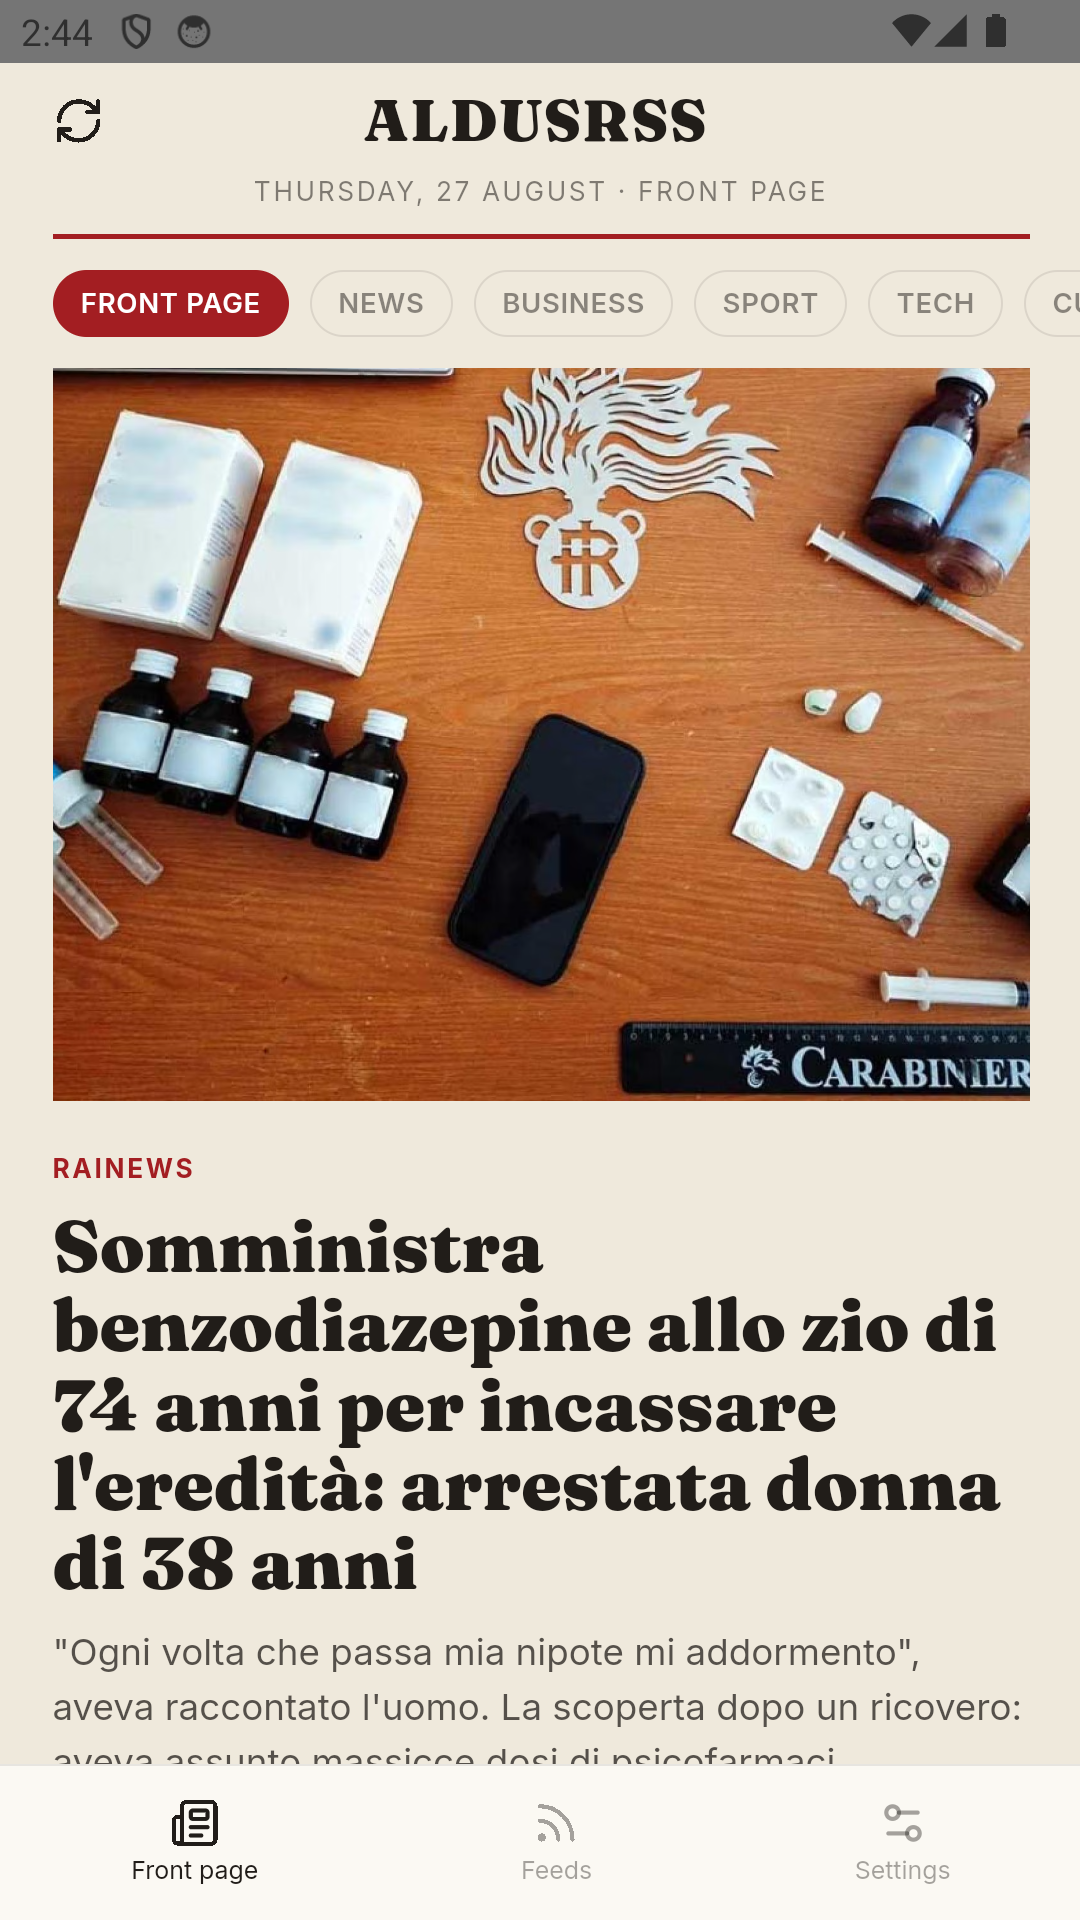
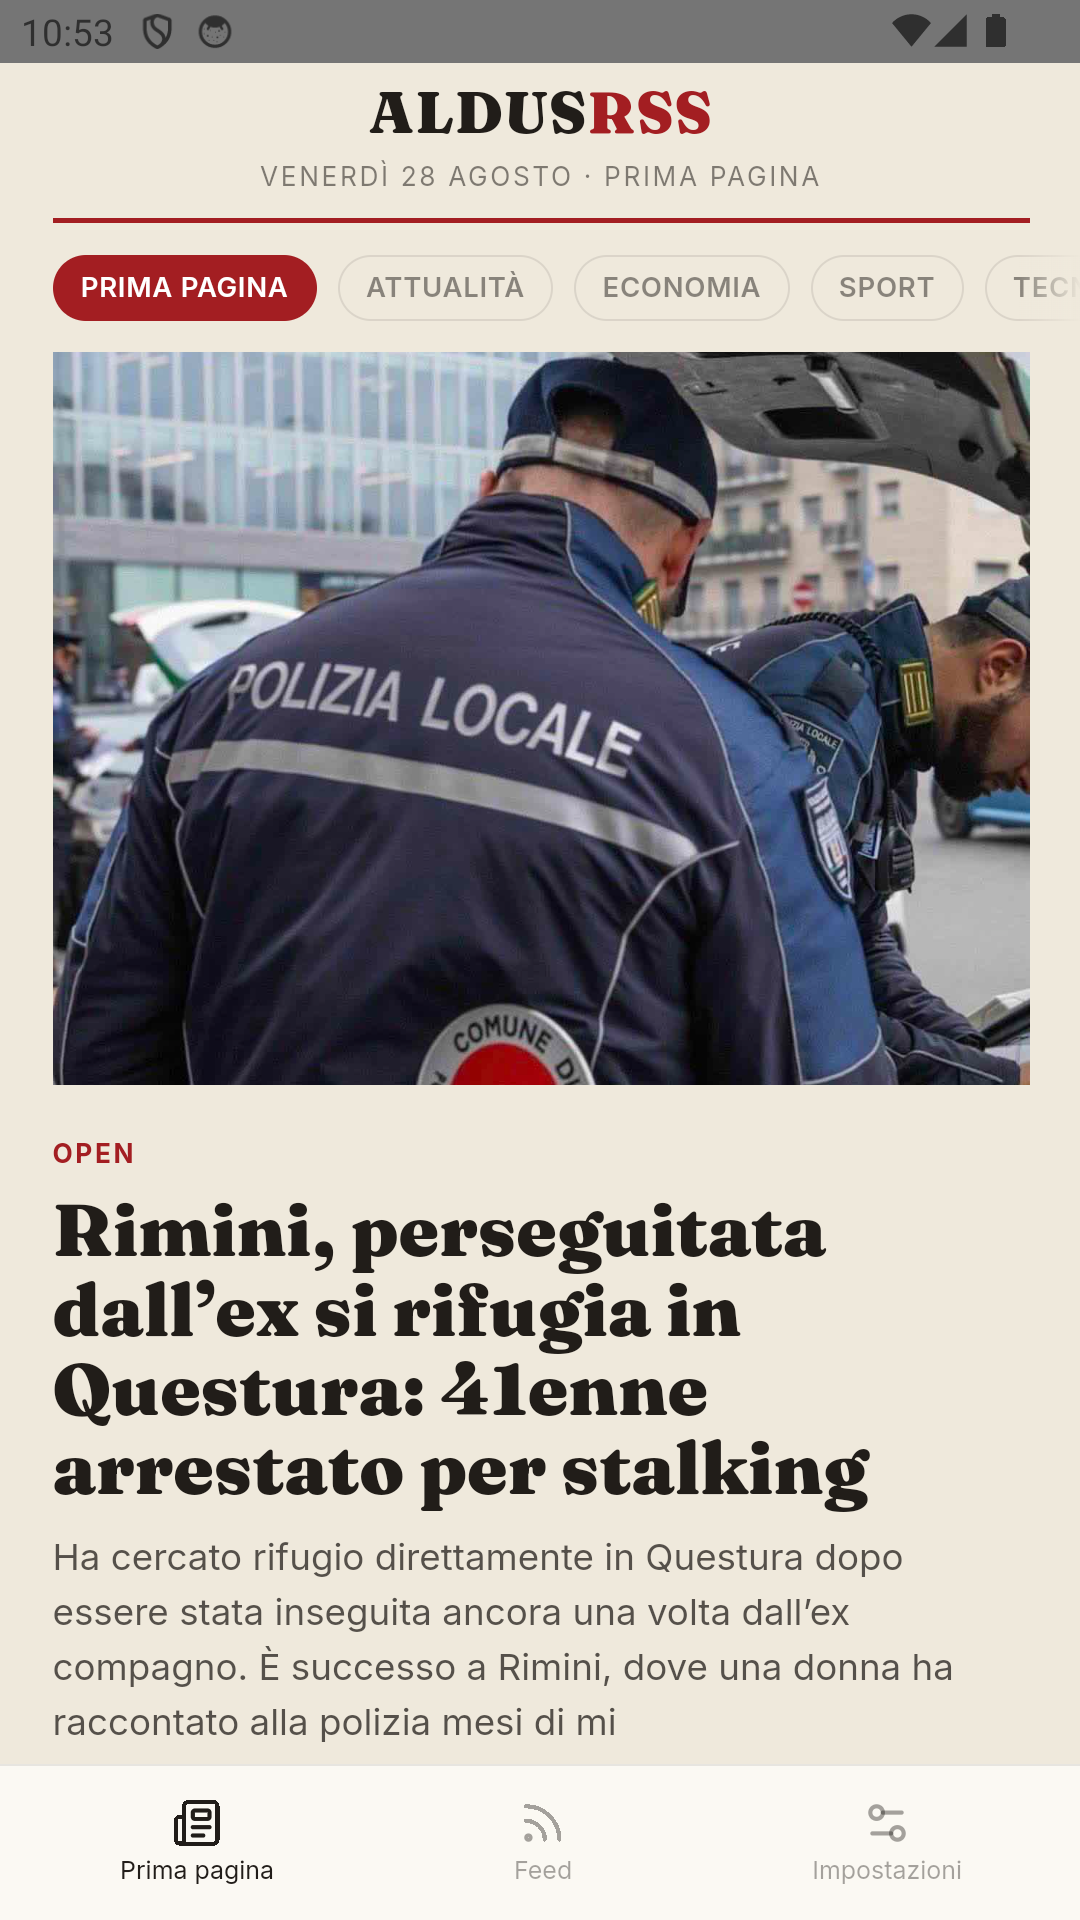
Screenshot store aggiornati alla v0.4.3
I precedenti erano di una versione vecchia dell'app. Ricatturati
dall'emulatore Android (aldusrss_test, 1080×1920, locale it-IT via
`cmd locale set-app-locales`) sull'app appena buildata: Prima Pagina,
Sport (mostra il placeholder col nome della testata per ANSA, senza
immagine), Tecnologia, Cultura, Feed, Modalità notte.

diff --git a/docs/store/play-console-checklist.md b/docs/store/play-console-checklist.md
@@ -31,7 +31,7 @@ Quando sarai pronto per un pubblico più ampio, si passa a Closed/Open testing e
 - Categoria: Notizie e riviste
 - Icona 512×512: `docs/store/ic_play_512.png` (pronta)
 - Immagine in evidenza (feature graphic) 1024×500: `docs/store/feature_graphic_1024x500.png` (pronta)
-- Screenshot telefono (minimo 2, consigliati 4+): da fare — l'emulatore attuale è a bassa risoluzione (320×640), meglio catturarli da un telefono reale o un emulatore a risoluzione più alta quando l'app sarà meno "grezza"
+- Screenshot telefono (minimo 2, consigliati 4+): pronti in `docs/store/screenshots/` (emulatore 1080×1920, v0.4.3) — Prima Pagina, Sport, Tecnologia, Cultura, Feed, Modalità notte. Da rifare quando l'app sarà meno "grezza" o cambierà visibilmente; per ora vanno bene per Internal testing.
 
 ## 5. Firma
 
